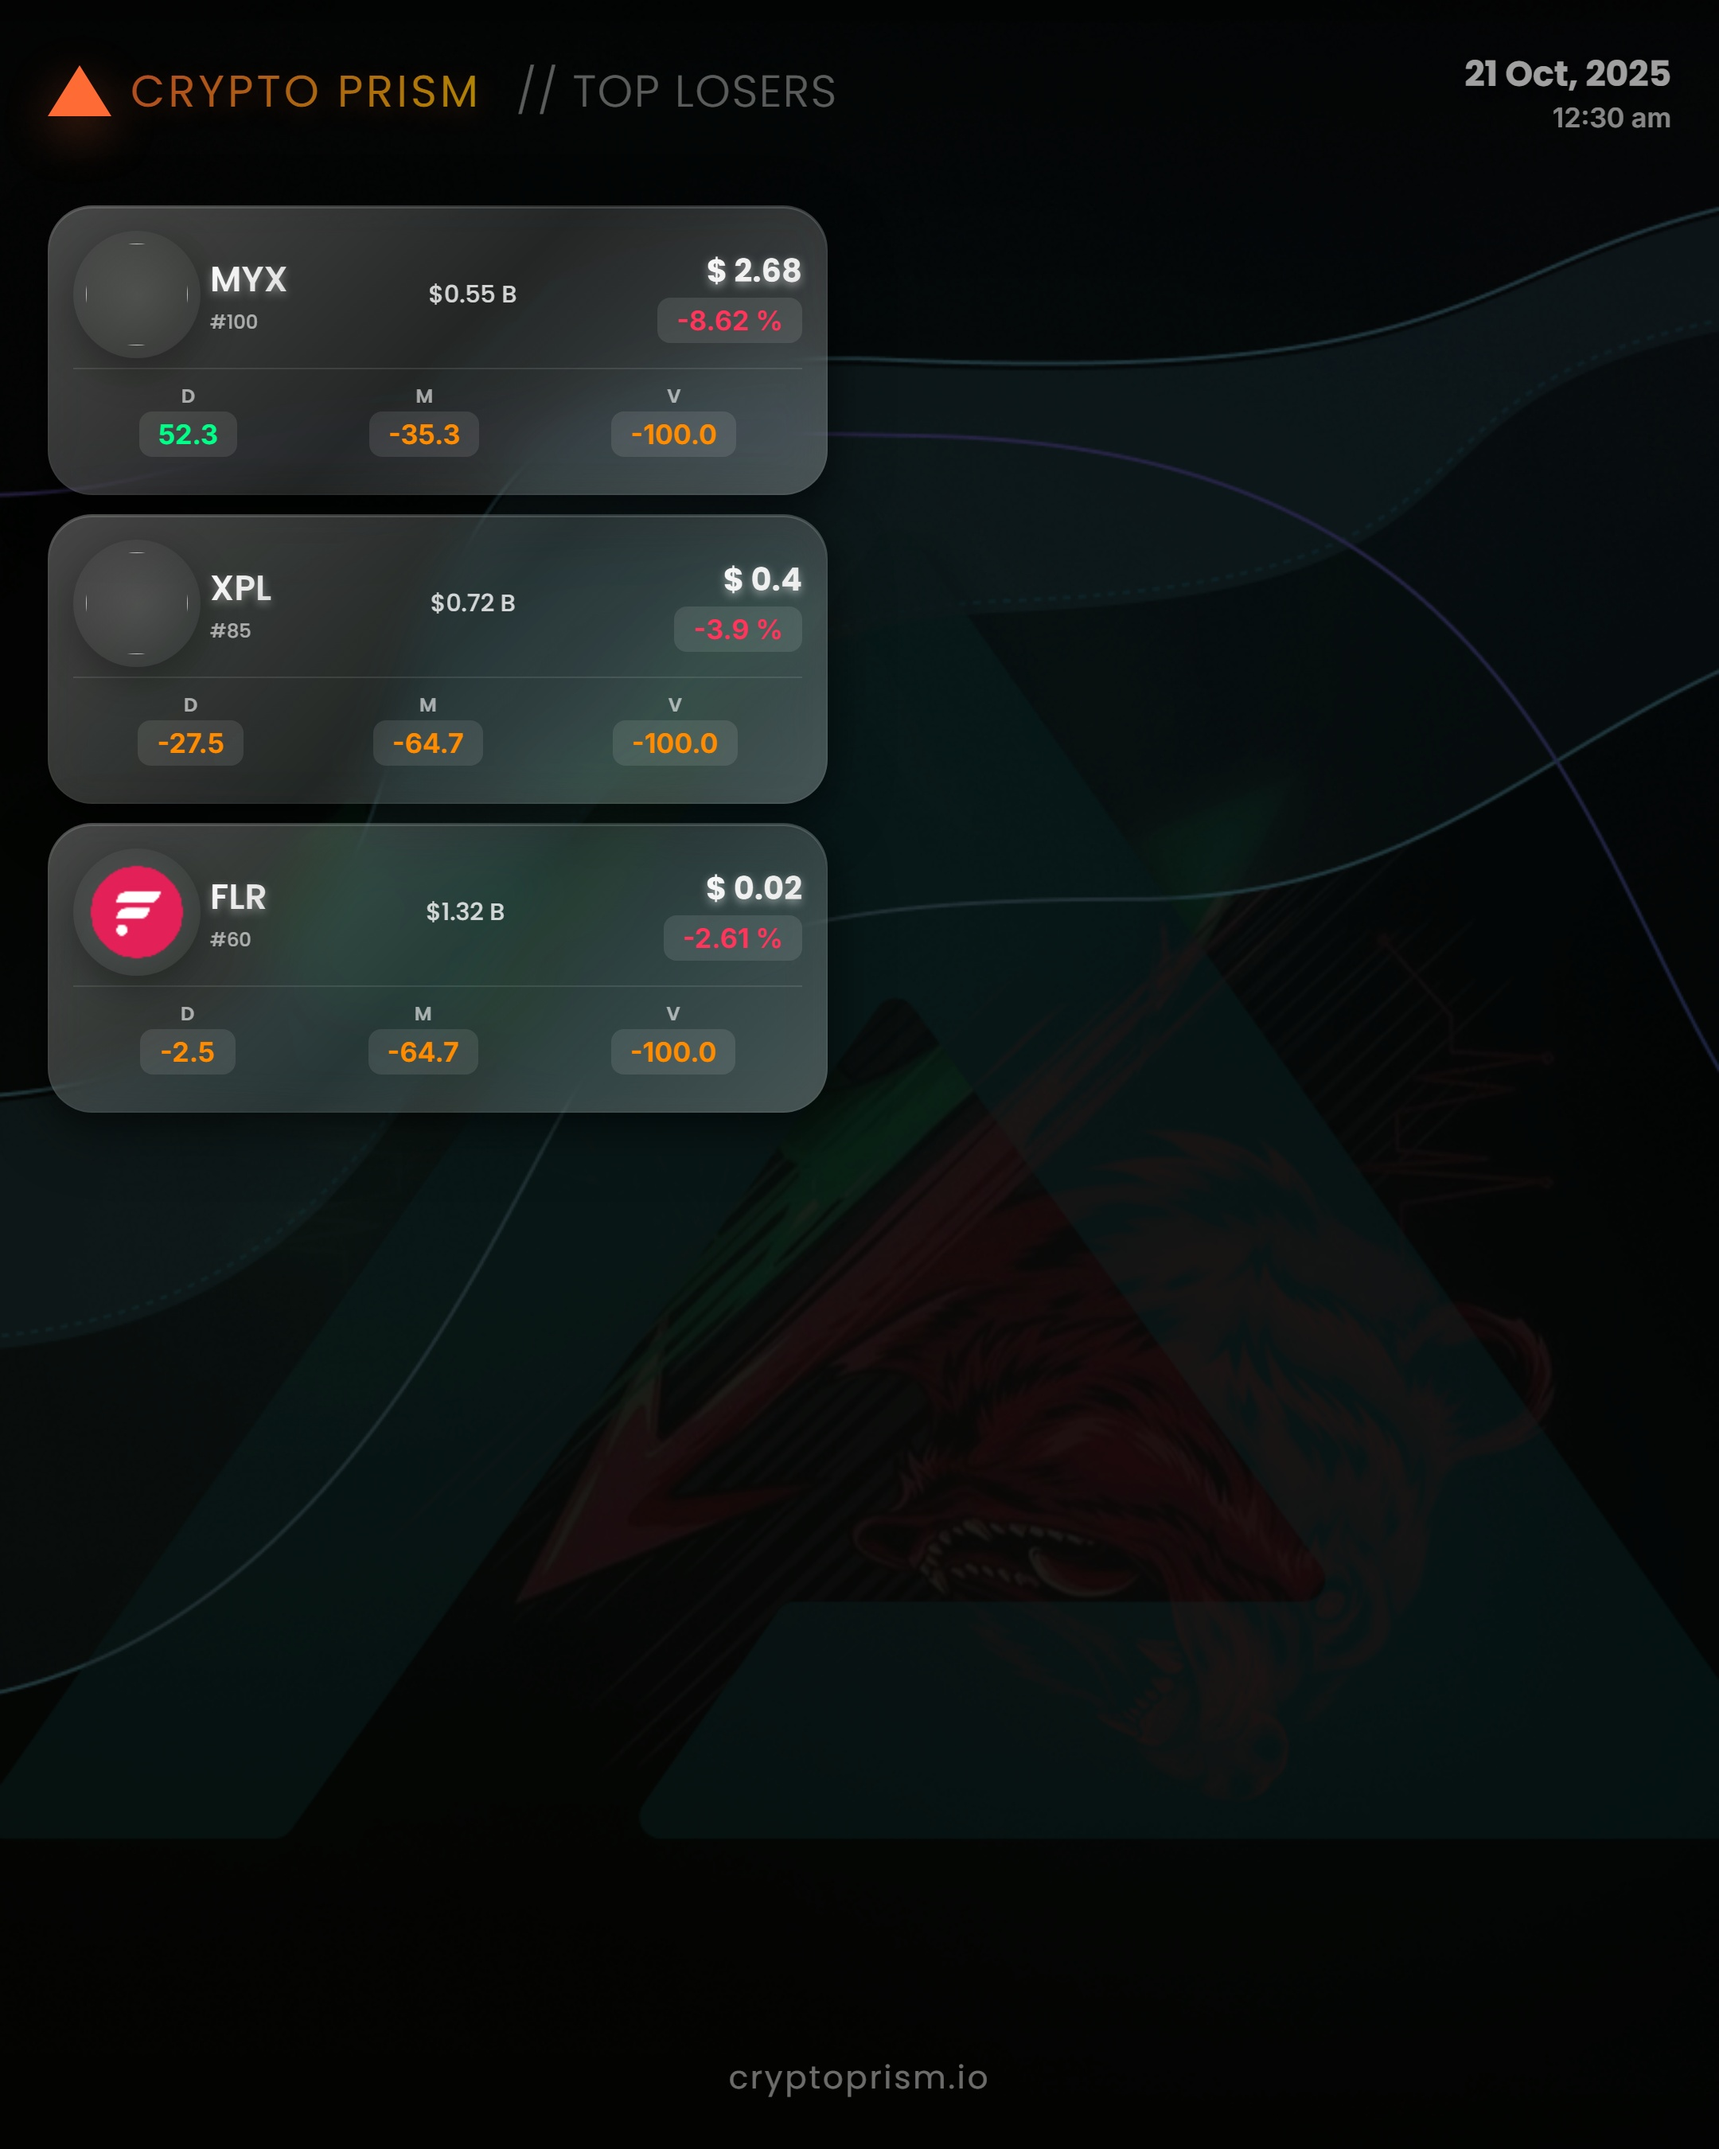
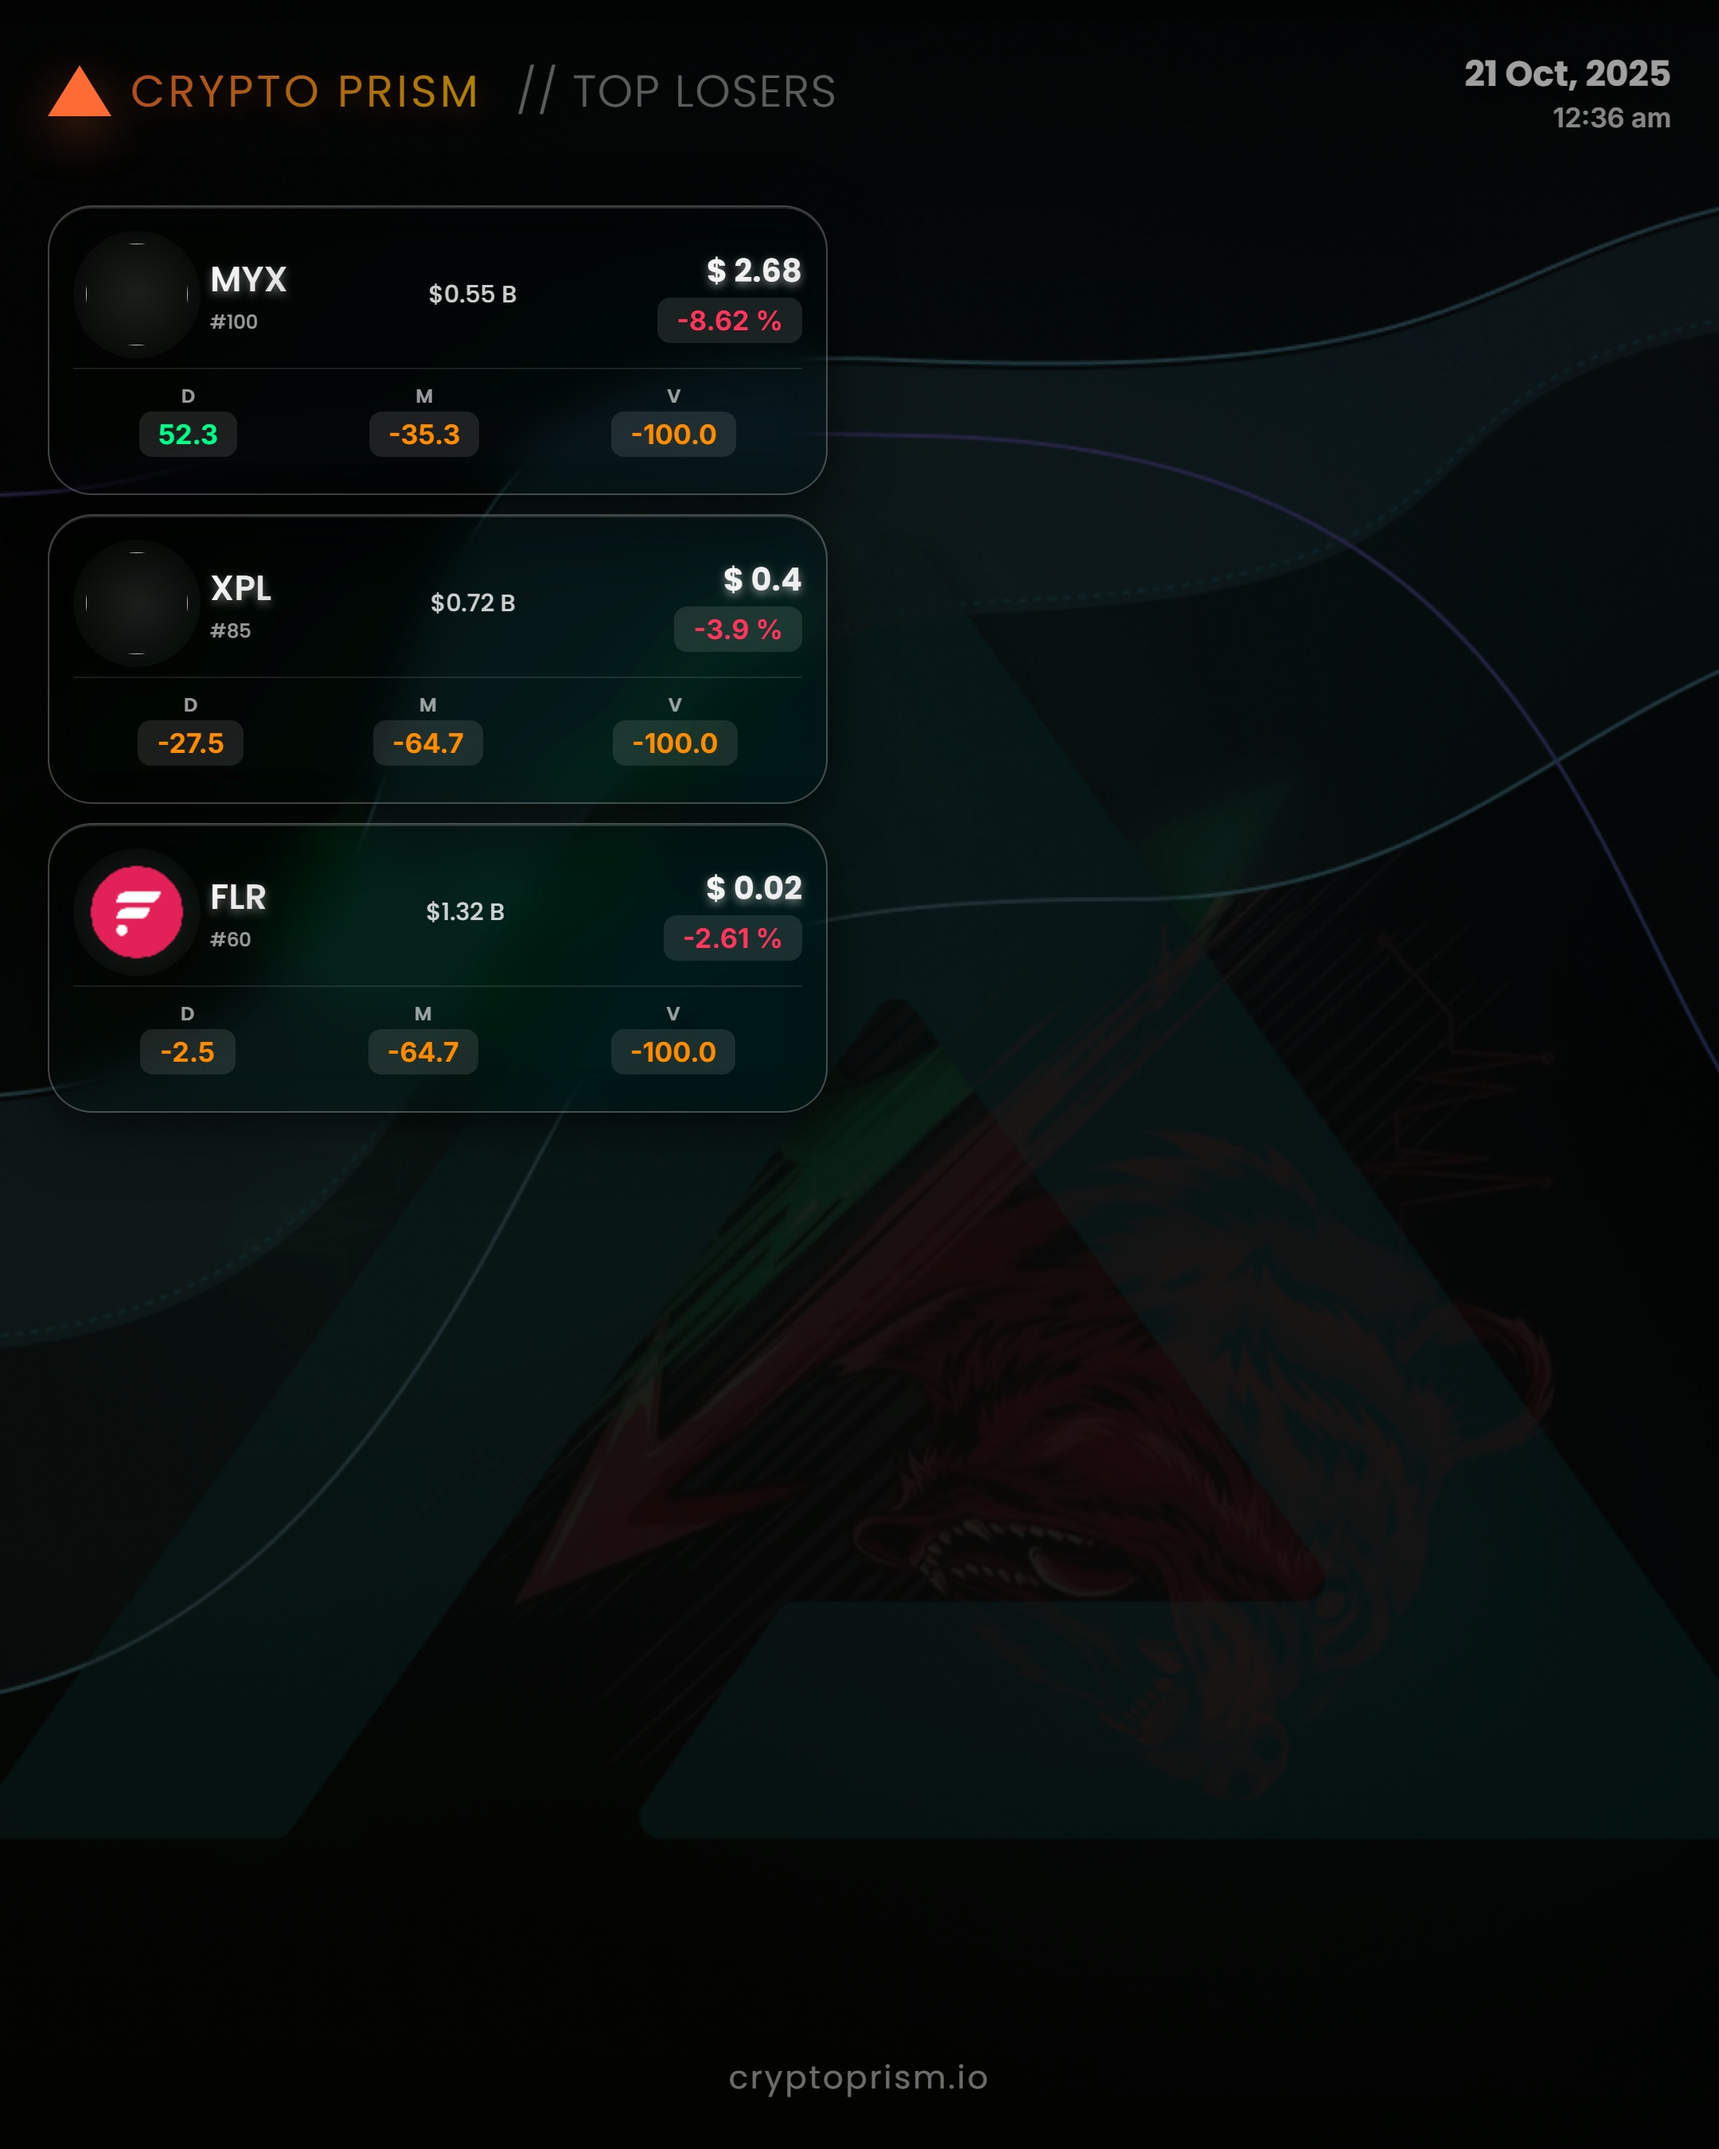
fix: Correct border implementation - keep original background
Fixed v2.3.4 border enhancement:
- Reverted background to original: rgba(0, 0, 0, 0.1)
- Applied proper border: 2px solid rgba(255, 255, 255, 0.25)
- Border now 5x more visible (25% vs 5% opacity)
- Background color preserved (was incorrectly changed to gradient)

Previous implementation mistakenly used dual-background technique
which altered card background color. This fix maintains original
glassmorphism background while making borders clearly visible.

Production: https://www.instagram.com/p/DQCs2RCgRqt/

🤖 Generated with [Claude Code](https://claude.com/claude-code)

Changed region(s): [[0.031, 0.0933, 0.4963, 0.5289]]

diff --git a/base_templates/style1.css b/base_templates/style1.css
@@ -392,17 +392,11 @@ body::before {
 
 /* 💎 Individual Coin Cards - Template 2 Style - Bitcoin Intelligence Glassmorphism */
 .coin-card {
-    border-radius: 56px;
-    border: 2px solid transparent;
-    background:
-        linear-gradient(rgba(0, 0, 0, 0.1), rgba(0, 0, 0, 0.1)) padding-box,
-        linear-gradient(135deg,
-            rgba(255, 255, 255, 0.3) 0%,
-            rgba(255, 255, 255, 0.15) 50%,
-            rgba(255, 255, 255, 0.3) 100%
-        ) border-box;
+    background: rgba(0, 0, 0, 0.1);
     backdrop-filter: blur(28px) saturate(180%);
     -webkit-backdrop-filter: blur(28px) saturate(180%);
+    border-radius: 56px;
+    border: 2px solid rgba(255, 255, 255, 0.25);
 
     box-shadow:
         0 24px 80px rgba(0, 0, 0, 0.4),

diff --git a/base_templates/style2.css b/base_templates/style2.css
@@ -392,17 +392,11 @@ body::before {
 
 /* 💎 Individual Coin Cards - Template 2 Style - Bitcoin Intelligence Glassmorphism */
 .coin-card {
-    border-radius: 56px;
-    border: 2px solid transparent;
-    background:
-        linear-gradient(rgba(0, 0, 0, 0.1), rgba(0, 0, 0, 0.1)) padding-box,
-        linear-gradient(135deg,
-            rgba(255, 255, 255, 0.3) 0%,
-            rgba(255, 255, 255, 0.15) 50%,
-            rgba(255, 255, 255, 0.3) 100%
-        ) border-box;
+    background: rgba(0, 0, 0, 0.1);
     backdrop-filter: blur(28px) saturate(180%);
     -webkit-backdrop-filter: blur(28px) saturate(180%);
+    border-radius: 56px;
+    border: 2px solid rgba(255, 255, 255, 0.25);
 
     box-shadow:
         0 24px 80px rgba(0, 0, 0, 0.4),

diff --git a/output_html/style1.css b/output_html/style1.css
@@ -392,17 +392,11 @@ body::before {
 
 /* 💎 Individual Coin Cards - Template 2 Style - Bitcoin Intelligence Glassmorphism */
 .coin-card {
-    border-radius: 56px;
-    border: 2px solid transparent;
-    background:
-        linear-gradient(rgba(0, 0, 0, 0.1), rgba(0, 0, 0, 0.1)) padding-box,
-        linear-gradient(135deg,
-            rgba(255, 255, 255, 0.3) 0%,
-            rgba(255, 255, 255, 0.15) 50%,
-            rgba(255, 255, 255, 0.3) 100%
-        ) border-box;
+    background: rgba(0, 0, 0, 0.1);
     backdrop-filter: blur(28px) saturate(180%);
     -webkit-backdrop-filter: blur(28px) saturate(180%);
+    border-radius: 56px;
+    border: 2px solid rgba(255, 255, 255, 0.25);
 
     box-shadow:
         0 24px 80px rgba(0, 0, 0, 0.4),

diff --git a/output_html/style2.css b/output_html/style2.css
@@ -392,17 +392,11 @@ body::before {
 
 /* 💎 Individual Coin Cards - Template 2 Style - Bitcoin Intelligence Glassmorphism */
 .coin-card {
-    border-radius: 56px;
-    border: 2px solid transparent;
-    background:
-        linear-gradient(rgba(0, 0, 0, 0.1), rgba(0, 0, 0, 0.1)) padding-box,
-        linear-gradient(135deg,
-            rgba(255, 255, 255, 0.3) 0%,
-            rgba(255, 255, 255, 0.15) 50%,
-            rgba(255, 255, 255, 0.3) 100%
-        ) border-box;
+    background: rgba(0, 0, 0, 0.1);
     backdrop-filter: blur(28px) saturate(180%);
     -webkit-backdrop-filter: blur(28px) saturate(180%);
+    border-radius: 56px;
+    border: 2px solid rgba(255, 255, 255, 0.25);
 
     box-shadow:
         0 24px 80px rgba(0, 0, 0, 0.4),

diff --git a/base_templates/style3.css b/base_templates/style3.css
@@ -410,17 +410,11 @@ body::before {
 
 /* 💎 Enhanced Coin Cards for Template 3 - Bitcoin Intelligence Glassmorphism */
 .coin-card {
-    border-radius: 56px;
-    border: 2px solid transparent;
-    background:
-        linear-gradient(rgba(0, 0, 0, 0.1), rgba(0, 0, 0, 0.1)) padding-box,
-        linear-gradient(135deg,
-            rgba(255, 255, 255, 0.3) 0%,
-            rgba(255, 255, 255, 0.15) 50%,
-            rgba(255, 255, 255, 0.3) 100%
-        ) border-box;
+    background: rgba(0, 0, 0, 0.1);
     backdrop-filter: blur(28px) saturate(180%);
     -webkit-backdrop-filter: blur(28px) saturate(180%);
+    border-radius: 56px;
+    border: 2px solid rgba(255, 255, 255, 0.25);
 
     box-shadow:
         0 24px 80px rgba(0, 0, 0, 0.4),

diff --git a/output_html/style3.css b/output_html/style3.css
@@ -410,17 +410,11 @@ body::before {
 
 /* 💎 Enhanced Coin Cards for Template 3 - Bitcoin Intelligence Glassmorphism */
 .coin-card {
-    border-radius: 56px;
-    border: 2px solid transparent;
-    background:
-        linear-gradient(rgba(0, 0, 0, 0.1), rgba(0, 0, 0, 0.1)) padding-box,
-        linear-gradient(135deg,
-            rgba(255, 255, 255, 0.3) 0%,
-            rgba(255, 255, 255, 0.15) 50%,
-            rgba(255, 255, 255, 0.3) 100%
-        ) border-box;
+    background: rgba(0, 0, 0, 0.1);
     backdrop-filter: blur(28px) saturate(180%);
     -webkit-backdrop-filter: blur(28px) saturate(180%);
+    border-radius: 56px;
+    border: 2px solid rgba(255, 255, 255, 0.25);
 
     box-shadow:
         0 24px 80px rgba(0, 0, 0, 0.4),

diff --git a/base_templates/style4.css b/base_templates/style4.css
@@ -377,17 +377,11 @@ body::before {
 
 /* 🏆 Coin Cards - Bitcoin Intelligence Glassmorphism */
 .coin-card {
-    border-radius: 56px;
-    border: 2px solid transparent;
-    background:
-        linear-gradient(rgba(0, 0, 0, 0.1), rgba(0, 0, 0, 0.1)) padding-box,
-        linear-gradient(135deg,
-            rgba(255, 255, 255, 0.3) 0%,
-            rgba(255, 255, 255, 0.15) 50%,
-            rgba(255, 255, 255, 0.3) 100%
-        ) border-box;
+    background: rgba(0, 0, 0, 0.1);
     backdrop-filter: blur(28px) saturate(180%);
     -webkit-backdrop-filter: blur(28px) saturate(180%);
+    border-radius: 56px;
+    border: 2px solid rgba(255, 255, 255, 0.25);
 
     box-shadow:
         0 24px 80px rgba(0, 0, 0, 0.4),

diff --git a/output_html/style4.css b/output_html/style4.css
@@ -377,17 +377,11 @@ body::before {
 
 /* 🏆 Coin Cards - Bitcoin Intelligence Glassmorphism */
 .coin-card {
-    border-radius: 56px;
-    border: 2px solid transparent;
-    background:
-        linear-gradient(rgba(0, 0, 0, 0.1), rgba(0, 0, 0, 0.1)) padding-box,
-        linear-gradient(135deg,
-            rgba(255, 255, 255, 0.3) 0%,
-            rgba(255, 255, 255, 0.15) 50%,
-            rgba(255, 255, 255, 0.3) 100%
-        ) border-box;
+    background: rgba(0, 0, 0, 0.1);
     backdrop-filter: blur(28px) saturate(180%);
     -webkit-backdrop-filter: blur(28px) saturate(180%);
+    border-radius: 56px;
+    border: 2px solid rgba(255, 255, 255, 0.25);
 
     box-shadow:
         0 24px 80px rgba(0, 0, 0, 0.4),

diff --git a/base_templates/style6.css b/base_templates/style6.css
@@ -64,17 +64,11 @@ body::before {
 
 /* 🚀 Bitcoin Dashboard Card */
 .btc-dashboard-card {
-    border-radius: 56px;
-    border: 2px solid transparent;
-    background:
-        linear-gradient(rgba(0, 0, 0, 0.1), rgba(0, 0, 0, 0.1)) padding-box,
-        linear-gradient(135deg,
-            rgba(255, 255, 255, 0.3) 0%,
-            rgba(255, 255, 255, 0.15) 50%,
-            rgba(255, 255, 255, 0.3) 100%
-        ) border-box;
+    background: rgba(0, 0, 0, 0.1);
     backdrop-filter: blur(28px) saturate(180%);
     -webkit-backdrop-filter: blur(28px) saturate(180%);
+    border-radius: 56px;
+    border: 2px solid rgba(255, 255, 255, 0.25);
 
     box-shadow:
         0 24px 80px rgba(0, 0, 0, 0.4),

diff --git a/output_html/style6.css b/output_html/style6.css
@@ -64,17 +64,11 @@ body::before {
 
 /* 🚀 Bitcoin Dashboard Card */
 .btc-dashboard-card {
-    border-radius: 56px;
-    border: 2px solid transparent;
-    background:
-        linear-gradient(rgba(0, 0, 0, 0.1), rgba(0, 0, 0, 0.1)) padding-box,
-        linear-gradient(135deg,
-            rgba(255, 255, 255, 0.3) 0%,
-            rgba(255, 255, 255, 0.15) 50%,
-            rgba(255, 255, 255, 0.3) 100%
-        ) border-box;
+    background: rgba(0, 0, 0, 0.1);
     backdrop-filter: blur(28px) saturate(180%);
     -webkit-backdrop-filter: blur(28px) saturate(180%);
+    border-radius: 56px;
+    border: 2px solid rgba(255, 255, 255, 0.25);
 
     box-shadow:
         0 24px 80px rgba(0, 0, 0, 0.4),

diff --git a/output_html/04_bitcoin_intelligence_output.html b/output_html/04_bitcoin_intelligence_output.html
@@ -19,7 +19,7 @@
             </div>
             <div class="last-update">
                 <div class="last-update-date">21 Oct, 2025</div>
-                <div class="last-update-time">12:29:32 AM</div>
+                <div class="last-update-time">12:35:34 AM</div>
             </div>
         </div>
 

diff --git a/output_html/12_top_cryptos_2_24_output.html b/output_html/12_top_cryptos_2_24_output.html
@@ -19,7 +19,7 @@
             </div>
             <div class="last-update">
                 <div class="last-update-date">21 Oct, 2025</div>
-                <div class="last-update-time">12:30:32 AM</div>
+                <div class="last-update-time">12:36:33 AM</div>
             </div>
         </div>
 
